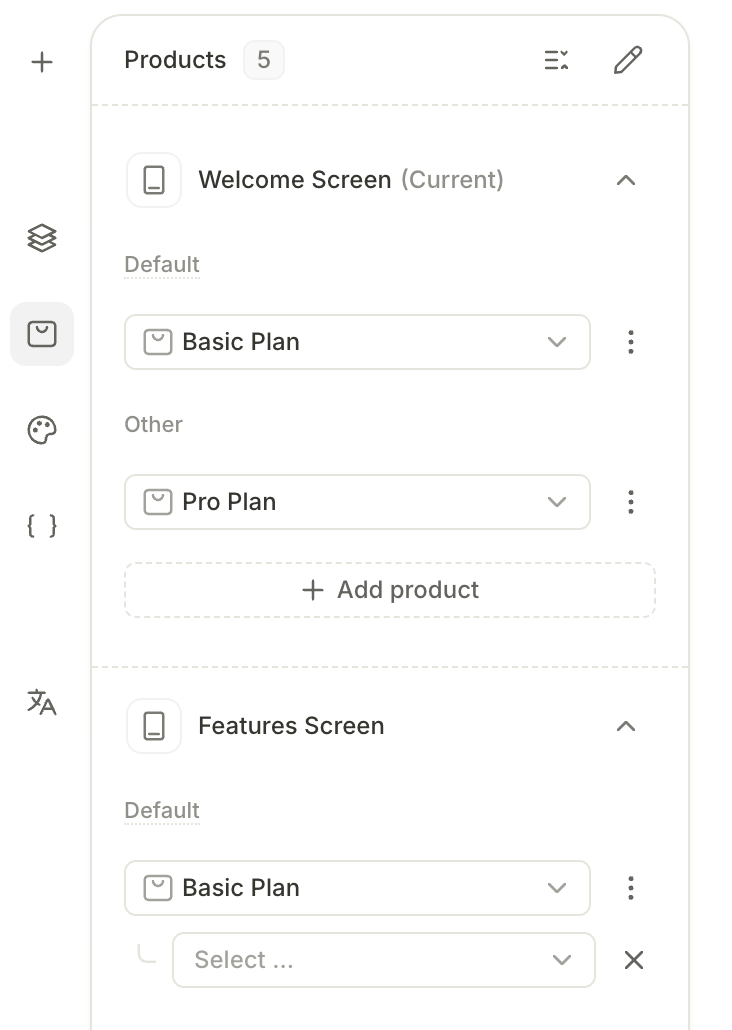
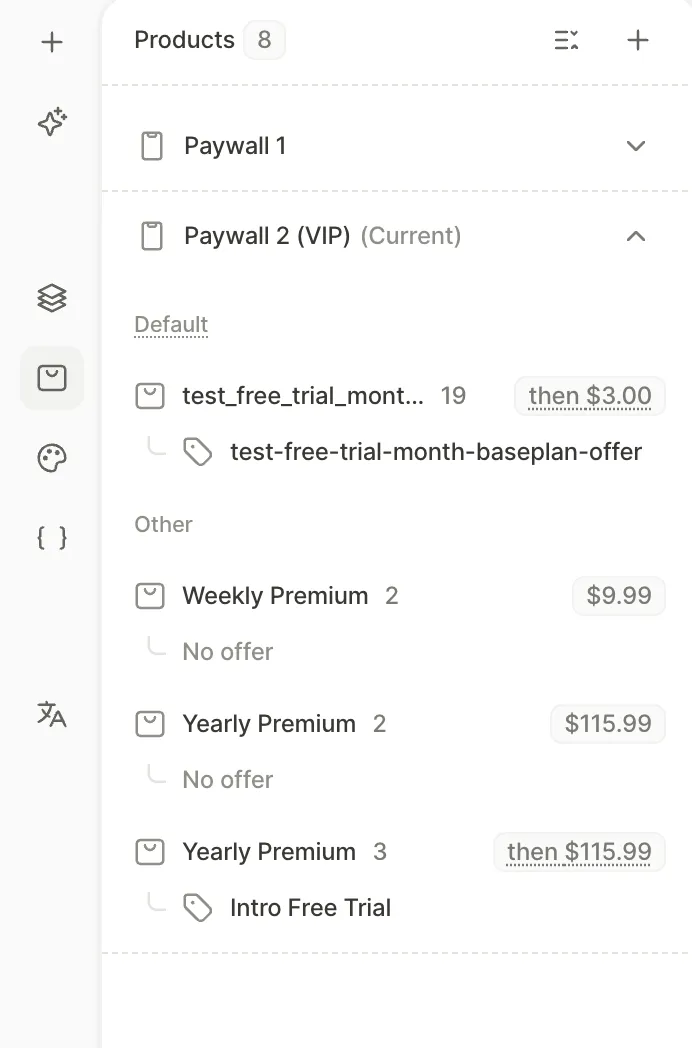
new product management approach

diff --git a/.claude/context-mill/zones/flow-logic.md b/.claude/context-mill/zones/flow-logic.md
@@ -53,6 +53,20 @@ renders the finished flow in an app (that's `sdk-flows-display` for `getFlow`/re
   `builder/src/blocks/shared/variables/variables.common.ts`) can only resolve what the mapper sent, and
   a field's *absence* there is why a variable renders as a token. Verified 2026-08-24 against
   `origin/master` `db365e184`.
+- **The per-screen product registry (ADP-7541, flow schema v12) has two specs in `dashboard-interface`:**
+  `packages/unified-builder/builder/src/blocks/products/products.spec.md` (panel behaviour, menu items,
+  toasts, dialog labels) and `packages/unified-builder/builder/src/core/entities/screen-products/issues.spec.md`
+  (the publish-blocking issue codes with their exact titles). `paywall-product-block` and
+  `flow-common-issues` quote those titles verbatim — verify against the specs, not against a screenshot.
+  Two label traps verified 2026-09-13 on `origin/ADP-7541`. First, the group label for already-used
+  products depends on the picker: the card's **Product** dropdown and the plain product pickers say
+  **Added** and mean this screen's list (`blocks/shared/products/ProductSelect.tsx`); a text element's
+  `{ }` picker also says **Added** but spans every screen's list (`BindingCatalog.flowBindings()` in
+  `core/entities/product-bindings/catalog.ts`); the variables picker opened for a product-typed
+  comparison or assignment says **Current** (`blocks/shared/variables/ProductsTab.tsx`,
+  `scope === 'screen'`), and inside a card **Current** is the enclosing card's own product. Second, the
+  panel's **Missing** badge (product deleted from the catalog) is a different state from **This product
+  is off this screen** (product exists, not on the screen's list).
 - No dedicated source exists for the Flow metrics definitions (revenue, proceeds, ARPPU, conversion
   rates) beyond the article's own prose — these are dashboard-backend calculations with no spec file
   registered in `sources.md`. Treat `flow-metrics.mdx` itself, cross-checked against `paywall-metrics.mdx`
@@ -281,7 +295,8 @@ pre-flow era (`paywall-*`, `onboarding-*`) — the ticket's word for a thing rar
 |---|---|
 | "flow logic", "flow behavior", "the branch didn't fire", "what does this panel do", "where is the publish button" | This zone, not `flow-design` — apply the Boundaries test (trigger/action/condition/variable/lifecycle = here; layout, look, style, copy = `flow-design`). A pure "tour the interface" question is `builder-ui`, which is also the fastest way to answer "where is X in the editor". |
 | "create a flow", "start from a template", "template gallery", "duplicate flow name warning" | `paywall-builder-templates` — the create-a-flow entry point despite the pre-flow filename. `adapty-flow-builder` only orients; it doesn't walk the creation steps. |
-| "buy button does nothing", "restore link", "price inside the button label", "pre-selected plan", "assign a product to a card" | `paywall-product-block` is canon for all of it — and an unassigned product element is also one of the conditions that blocks publishing, so a "flow won't publish" ticket often ends here. Five recipes re-explain these steps verbatim; fix the mechanic here first. |
+| "buy button does nothing", "restore link", "price inside the button label", "pre-selected plan", "assign a product to a card" | `paywall-product-block` is canon for all of it — and an unassigned product element is also one of the conditions that blocks publishing, so a "flow won't publish" ticket often ends here. Five recipes re-explain these steps verbatim; fix the mechanic here first. Since ADP-7541 the "won't publish" half has names: **No product selected**, **This product no longer exists**, **This product is off this screen**, **Offer required** — all listed with fixes in `flow-common-issues`, and fixed in bulk from the **Products** panel (`paywall-product-block#product-actions`). |
+| "product shows as Missing", "off this screen", "Can't publish yet", "the same product appears twice in the panel", "how do I swap a product on every screen" | `paywall-product-block#product-actions`. **Missing** = deleted from the Dashboard catalog; **off this screen** = exists but not on that screen's list (after a panel **Remove**). Two entries for one product = two product-and-offer pairs. **Replace in N places** rewrites every use on one screen and offers the same change on the other screens that use the pair. |
 | "route users by quiz answer", "personalize a screen from an answer", "navigate on tap without a button" | Split by what the ticket actually wants: *which screen comes next* → `onboarding-navigation-branching`; *store the answer and reuse it in text* → `onboarding-variables`; *a worked end-to-end example* → `onboarding-flow-tutorial`. |
 | "if/then/else", "conditional action", "close the flow from a button", "exit-intent offer", "last-chance discount before they leave" | `onboarding-actions` is canon for actions and conditional actions; the close-time discount itself is the `show-offer-on-close` recipe, which implements it as a conditional action on a Boolean flag — not as a separate feature. |
 | "custom action doesn't do anything", "the flow needs the result back", "validate an SMS code inside the flow", "gate the flow behind login" | `onboarding-actions`. The load-bearing constraint: a custom action is one-way — app code receives the Action ID but cannot return a value into the flow, so anything that depends on a result is split across two placements. |
